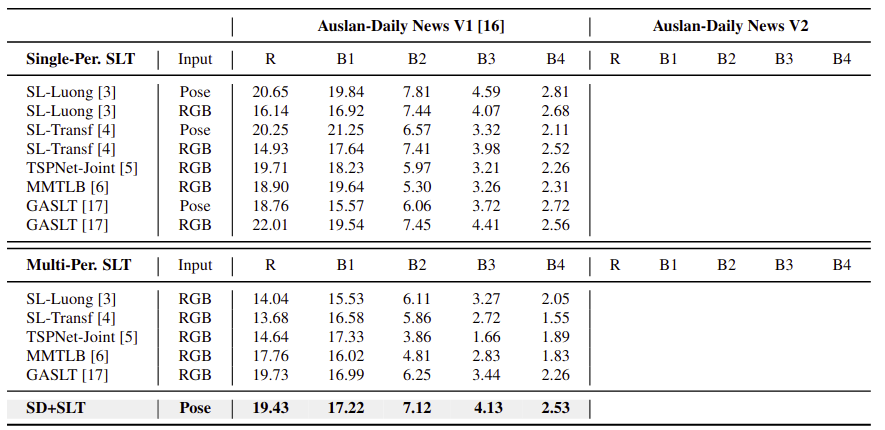
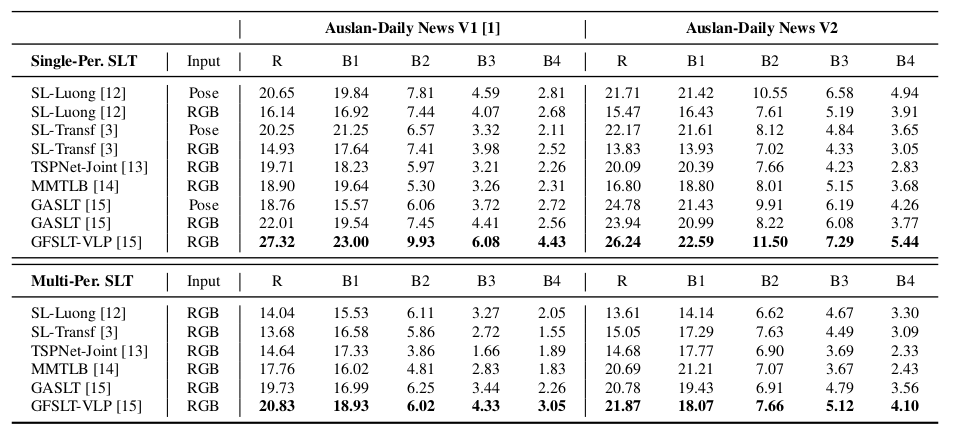
xin-update

Changed region(s): [[0.0, 0.0, 1.0, 0.9977]]

diff --git a/docs/en/3.3.2-dataset-sub-tasks.md b/docs/en/3.3.2-dataset-sub-tasks.md
@@ -72,10 +72,11 @@ The number of out-of-vocabulary (OOV) words and singletons further illustrates t
 
 We mention that all models used in this work are publicly available. We express profound gratitude to the aforementioned authors for their invaluable contributions. Each of the ISLR models we use is linked below:
 
-- SL-Transformer [GitHub](https://github.com/neccam/slt)
-- Iterative-Att [GitHub](https://github.com/chevalierNoir/FS-Detection)
-- MiCT-RANet [GitHub](https://github.com/fmahoudeau/MiCT-RANet-ASL-FingerSpelling)
-- TS-FS-Reg [GitHub](https://github.com/FangyunWei/SLRT)
-- FS-PoseNet [GitHub](https://github.com/pooyafayyaz/Fingerspelling-PoseNet)
+- SL-Luong [GitHub](https://github.com/neccam/slt)
+- SL-Transf [GitHub](https://github.com/neccam/slt)
+- TSPNet [GitHub](https://github.com/verashira/TSPNet)
+- MMTLB [GitHub](https://github.com/FangyunWei/SLRT/tree/main/TwoStreamNetwork)
+- GASLT [GitHub](https://github.com/yinaoxiong/gaslt)
+- GFSLT-VLP [GitHub](https://github.com/zhoubenjia/GFSLT-VLP)
 
 
